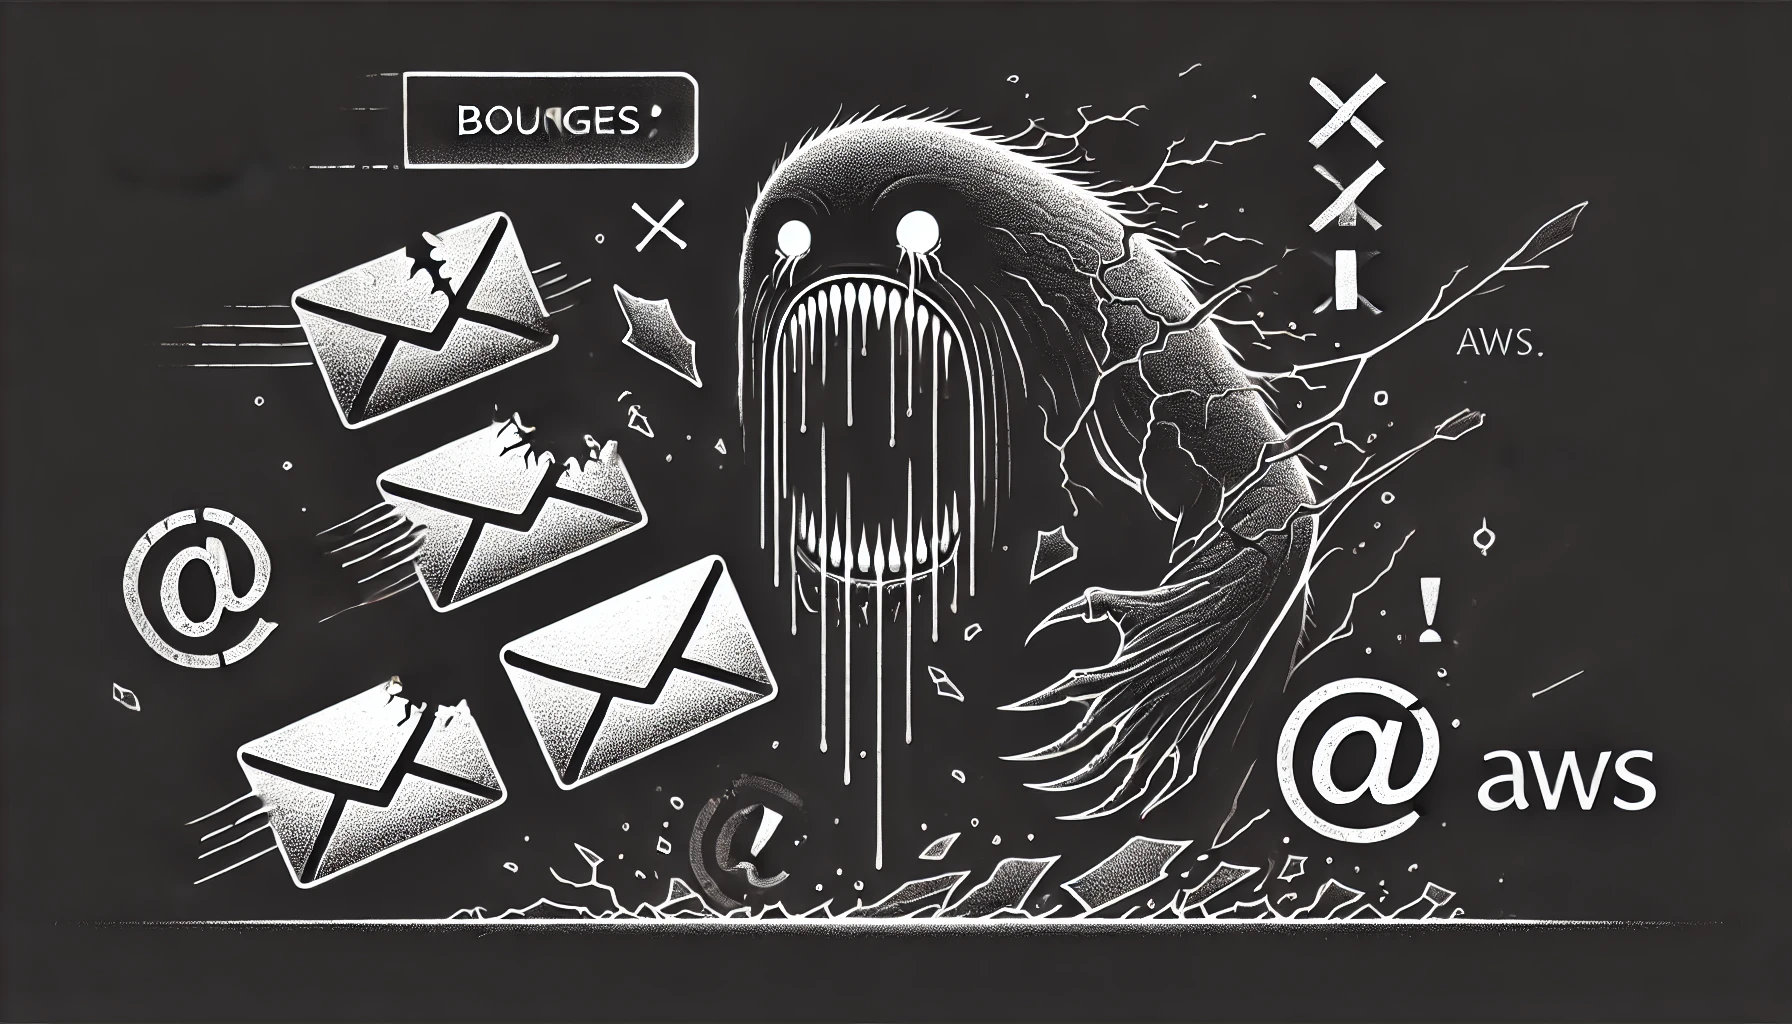
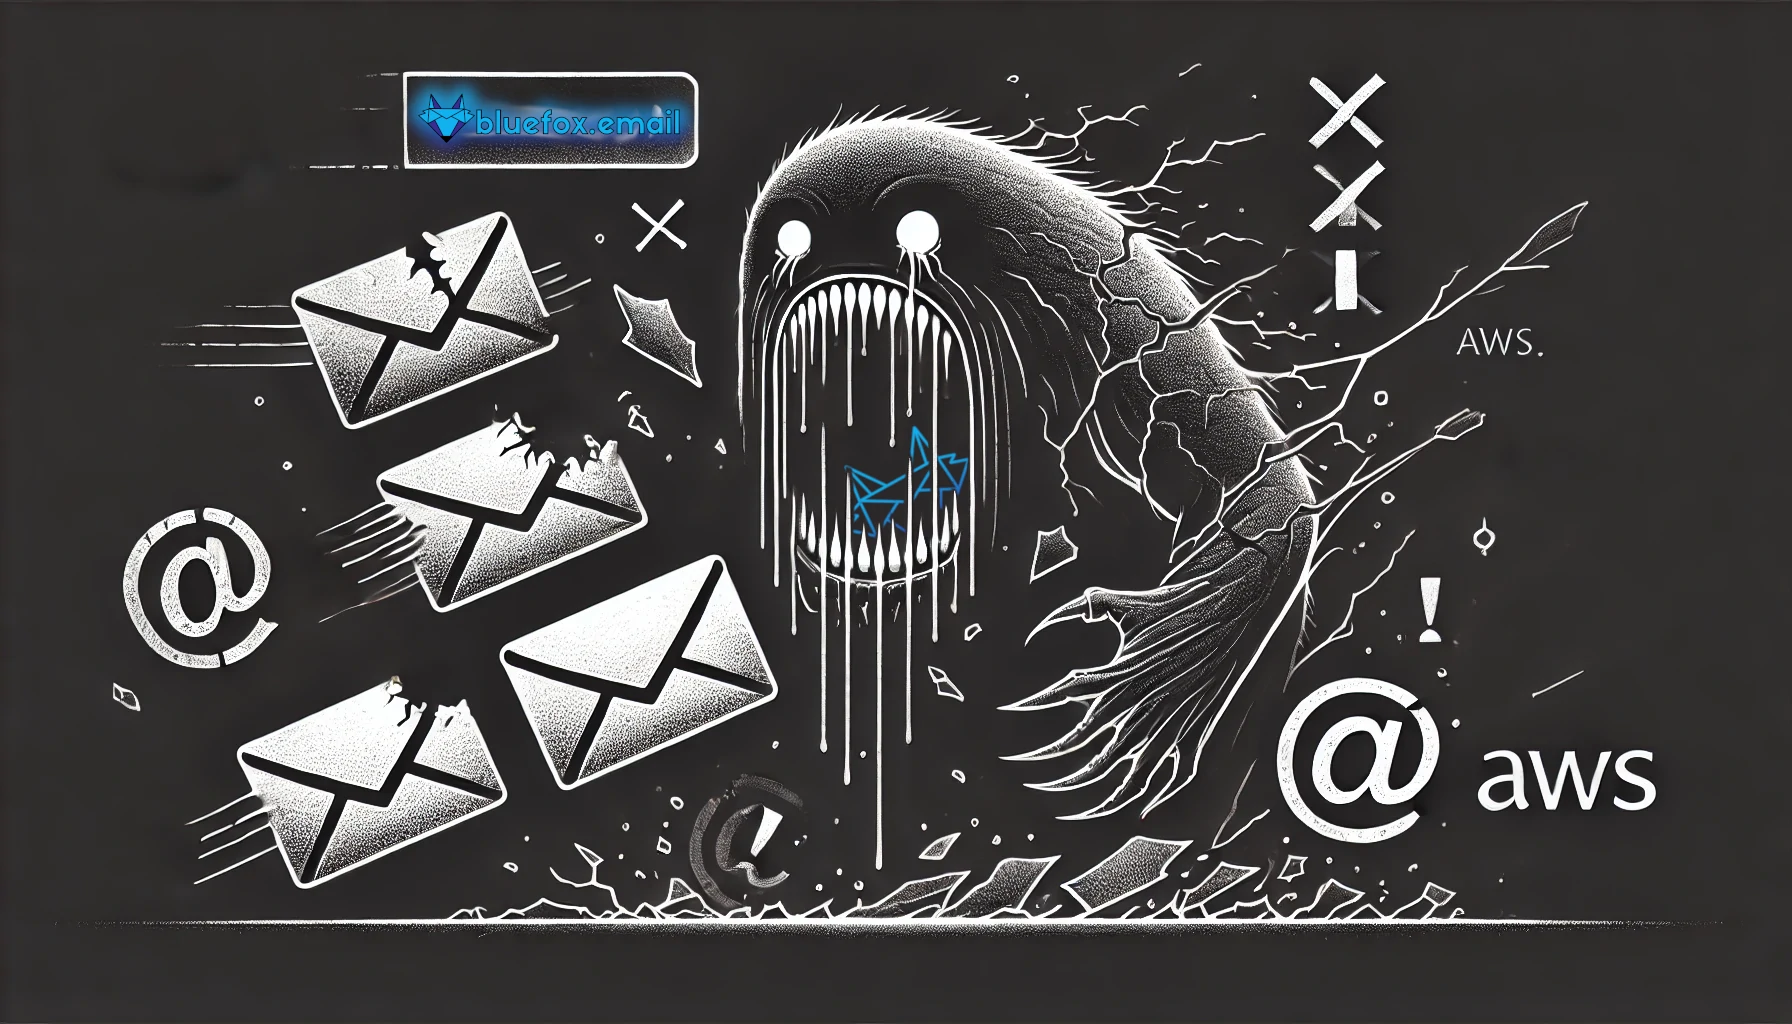
finalization

Changed region(s): [[0.2188, 0.0625, 0.4062, 0.1562], [0.4688, 0.4062, 0.5625, 0.5312]]

diff --git a/.vitepress/theme/Post.vue b/.vitepress/theme/Post.vue
@@ -1,6 +1,8 @@
 <template>
 <div class="PostContent">
-  <Content/>
+  <div class="vp-doc">
+    <Content/>
+  </div>
 </div>
 </template>
 
@@ -22,7 +24,7 @@
 .PostContent h2 {
   font-size: 2em;
   line-height: 1.05em;
-  margin-top: 2em;
+  margin-top: 3em;
   margin-bottom: 0.5em;
   font-weight: 600;
 }
@@ -30,13 +32,12 @@
 .PostContent h3 {
   font-size: 1.5em;
   line-height: 1.05em;
-  margin-top: 1em;
+  margin-top: 2em;
   margin-bottom: 0.5em;
   font-weight: 600;
 }
 
 .PostContent p {
-  padding: 16px 0;
   font-size: 16px;
   line-height: 28px;
 }
@@ -72,5 +73,4 @@
   color: #13B0EE;
   text-decoration: none;
 }
-
 </style>

diff --git a/posts/how-to-handle-bounces-and-complaints-with-aws-ses-and-sns.md b/posts/how-to-handle-bounces-and-complaints-with-aws-ses-and-sns.md
@@ -1,10 +1,40 @@
 ---
 layout: post
 title: How to Handle Bounces and Complaints with AWS SES and SNS
-description: yes.
+description: Step-by-step guide to handling bounces and complaints in AWS SES using SNS and webhooks.
+thumbnail: /assets/articles/how-to-handle-bounces-and-complaints-with-aws-ses-and-sns-share.png
 category: tutorials
+tags: ['AWS SES']
 sidebar: false
-published: true
+published: 2025-01-30
+head:
+  - - meta
+    - name: description
+      content: Learn how to properly handle bounces and complaints in AWS SES with SNS and webhooks to protect your sender reputation and improve deliverability.
+  - - meta
+    - property: og:title
+      content: How to Handle Bounces and Complaints with AWS SES and SNS
+  - - meta
+    - property: og:description
+      content: Learn how to properly handle bounces and complaints in AWS SES with SNS and webhooks to protect your sender reputation and improve deliverability.
+  - - meta
+    - property: og:image
+      content: https://bluefox.email/assets/articles/how-to-handle-bounces-and-complaints-with-aws-ses-and-sns-share.png
+  - - meta
+    - property: og:url
+      content: https://bluefox.email/posts/how-to-handle-bounces-and-complaints-with-aws-ses-and-sns
+  - - meta
+    - property: twitter:card
+      content: summary_large_image
+  - - meta
+    - property: twitter:title
+      content: How to Handle Bounces and Complaints with AWS SES and SNS
+  - - meta
+    - property: twitter:description
+      content: Step-by-step guide on setting up AWS SES and SNS to handle bounces and complaints effectively.
+  - - meta
+    - property: twitter:image
+      content: https://bluefox.email/assets/articles/how-to-handle-bounces-and-complaints-with-aws-ses-and-sns-share.png
 ---
 
 ![AWS can be scary.](./how-to-handle-bounces-and-complaints-with-aws-ses-and-sns/scary-aws.webp)
